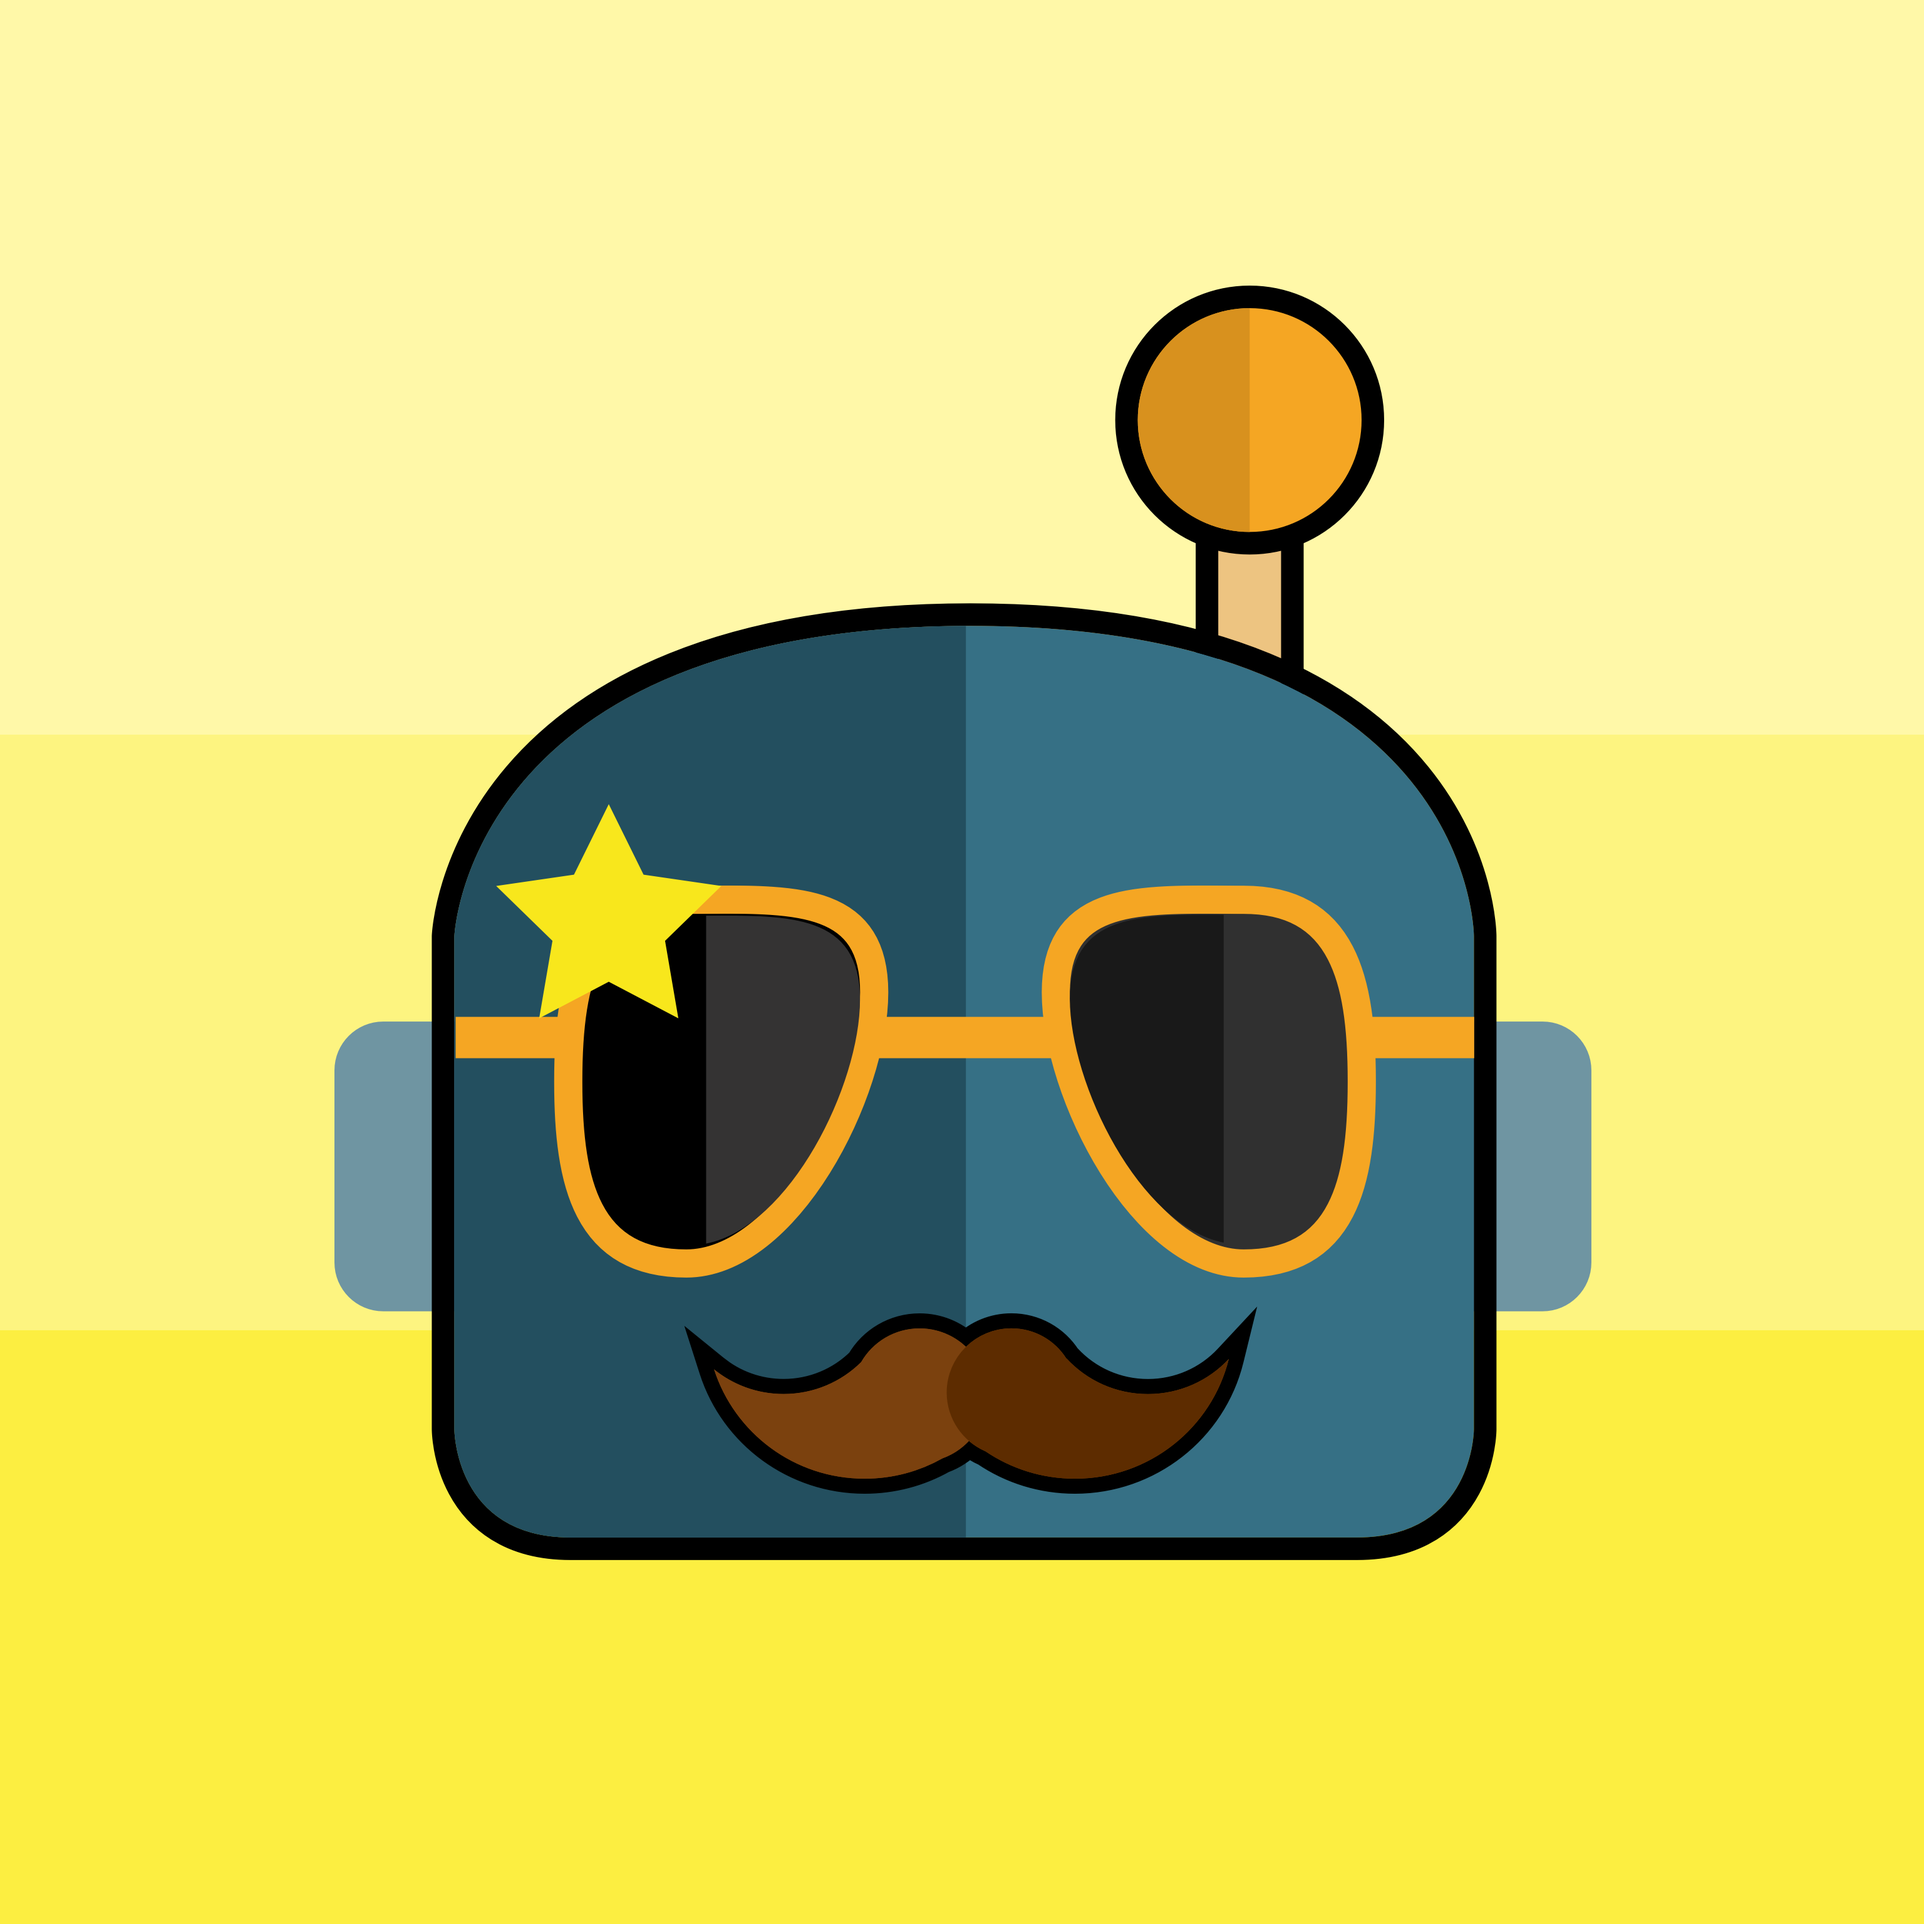
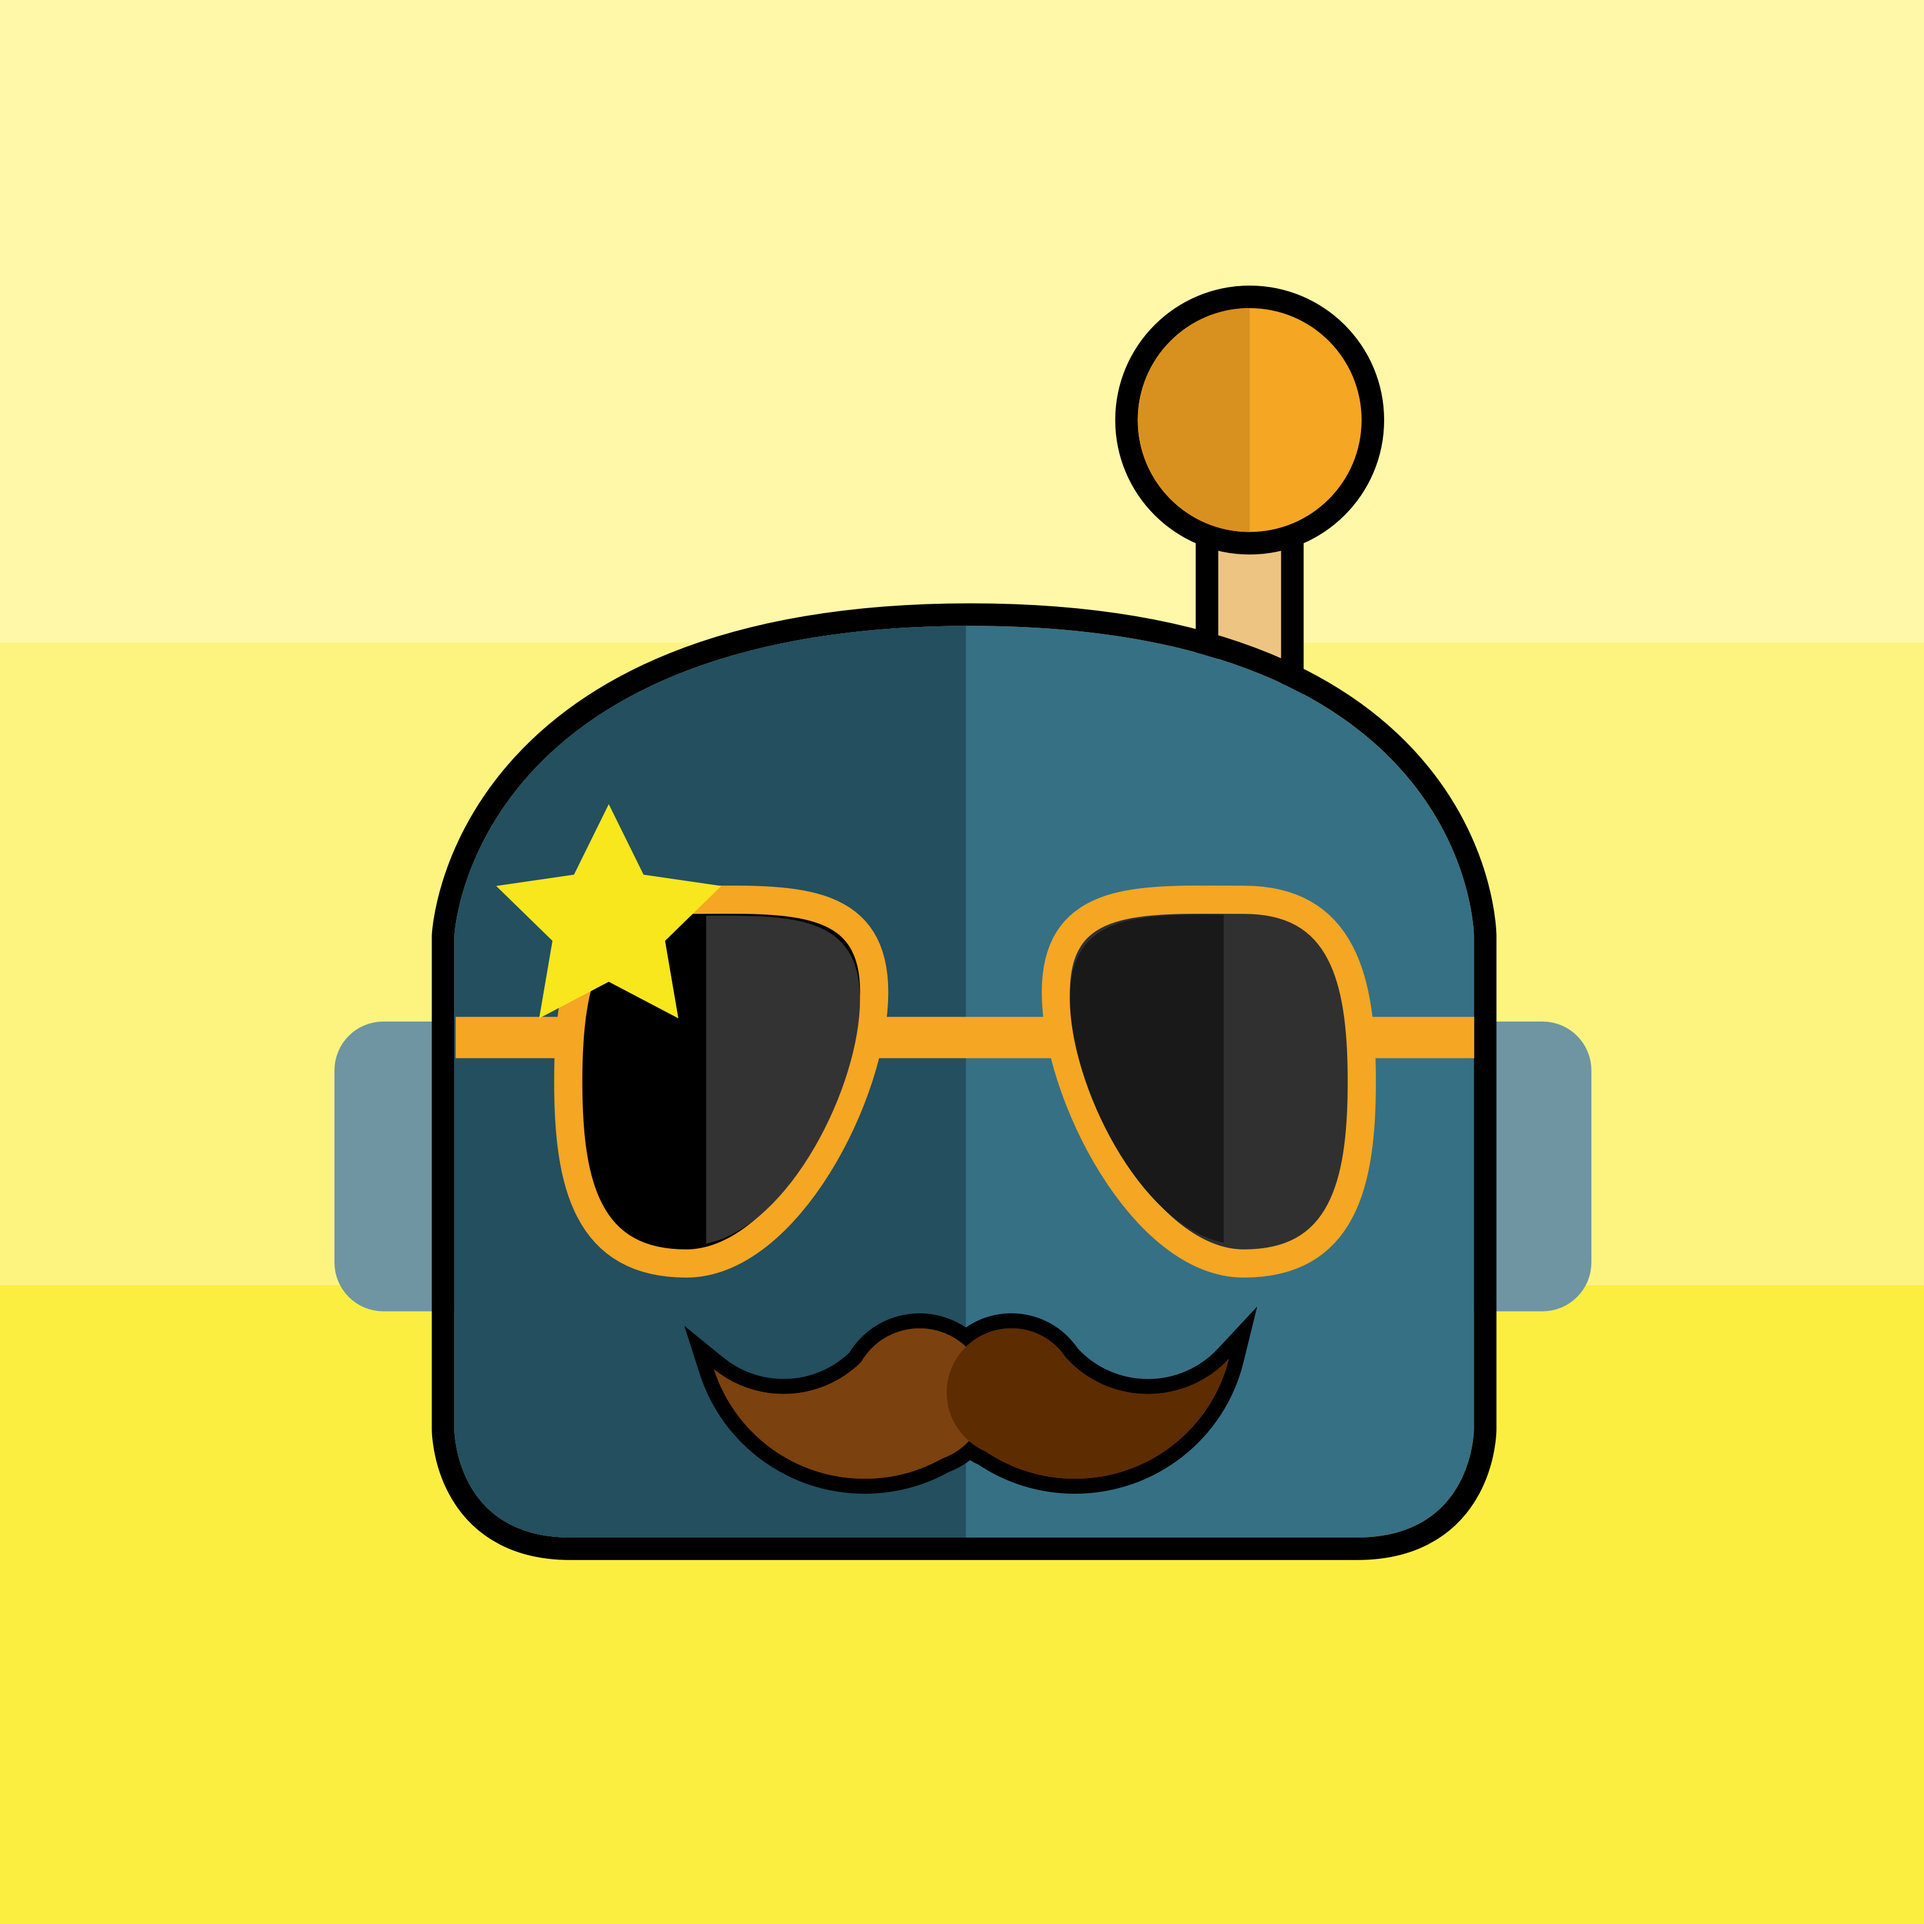
Hero becomes the Hero

diff --git a/src/css/hero.css b/src/css/hero.css
@@ -39,13 +39,21 @@
     display: inline-block;
     padding-top: 2%;
     min-width: 300px;
-    width: 33%;
+    width: 33.333333%;
     text-align: center;
 }
 
 .hero-image {
     display: block;
     height: 25vw;
+    background: rgba(109,107,107,1);
+    background: -moz-linear-gradient(top, rgba(109,107,107,1) 0%, rgba(109,107,107,1) 33.33333%, rgba(77,77,77,1) 33.33333%, rgba(77,77,77,1) 66.666666%, rgba(51,51,51,1) 66.666666%, rgba(51,51,51,1) 100%);
+    background: -webkit-gradient(left top, left bottom, color-stop(0%, rgba(109,107,107,1)), color-stop(33.33333%, rgba(109,107,107,1)), color-stop(33.33333%, rgba(77,77,77,1)), color-stop(66.666666%, rgba(77,77,77,1)), color-stop(66.666666%, rgba(51,51,51,1)), color-stop(100%, rgba(51,51,51,1)));
+    background: -webkit-linear-gradient(top, rgba(109,107,107,1) 0%, rgba(109,107,107,1) 33.33333%, rgba(77,77,77,1) 33.33333%, rgba(77,77,77,1) 66.666666%, rgba(51,51,51,1) 66.666666%, rgba(51,51,51,1) 100%);
+    background: -o-linear-gradient(top, rgba(109,107,107,1) 0%, rgba(109,107,107,1) 33.33333%, rgba(77,77,77,1) 33.33333%, rgba(77,77,77,1) 66.666666%, rgba(51,51,51,1) 66.666666%, rgba(51,51,51,1) 100%);
+    background: -ms-linear-gradient(top, rgba(109,107,107,1) 0%, rgba(109,107,107,1) 33.33333%, rgba(77,77,77,1) 33.33333%, rgba(77,77,77,1) 66.666666%, rgba(51,51,51,1) 66.666666%, rgba(51,51,51,1) 100%);
+    background: linear-gradient(to bottom, rgba(109,107,107,1) 0%, rgba(109,107,107,1) 33.33333%, rgba(77,77,77,1) 33.33333%, rgba(77,77,77,1) 66.666666%, rgba(51,51,51,1) 66.666666%, rgba(51,51,51,1) 100%);
+    filter: progid:DXImageTransform.Microsoft.gradient( startColorstr='#6d6b6b', endColorstr='#333333', GradientType=0 );
 }
 
 .hero-image img {
